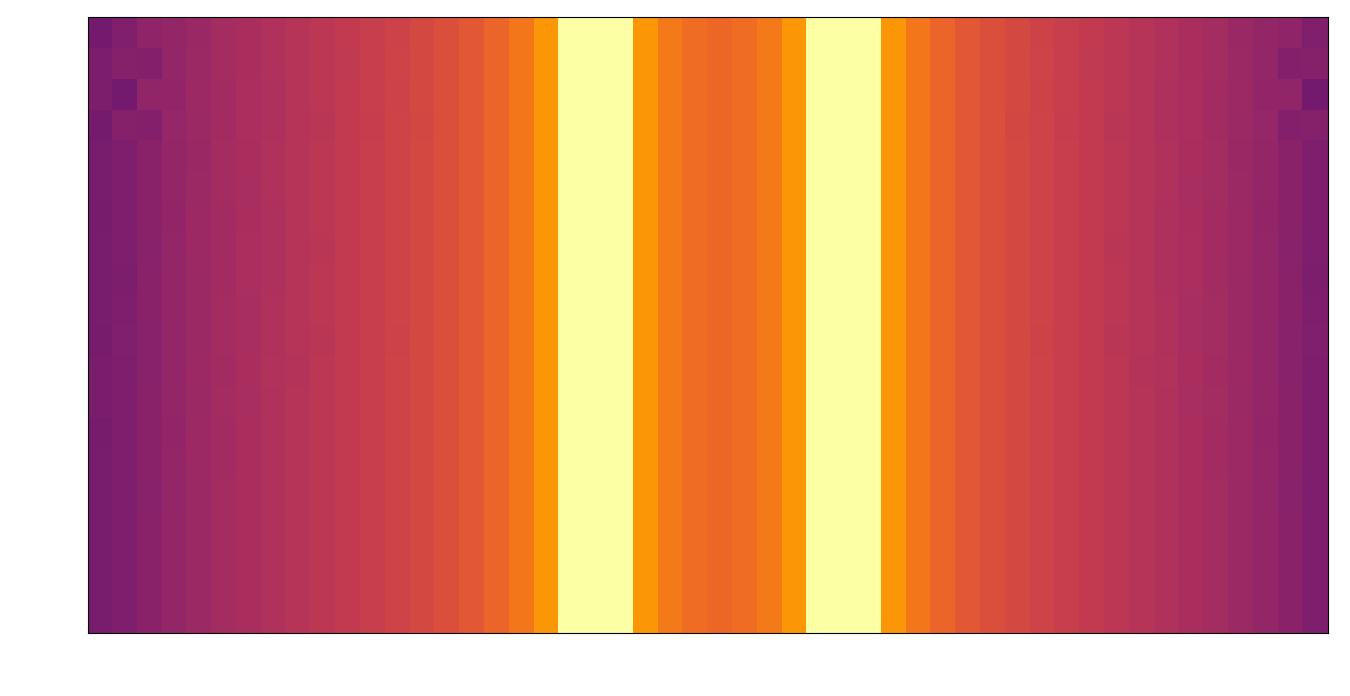
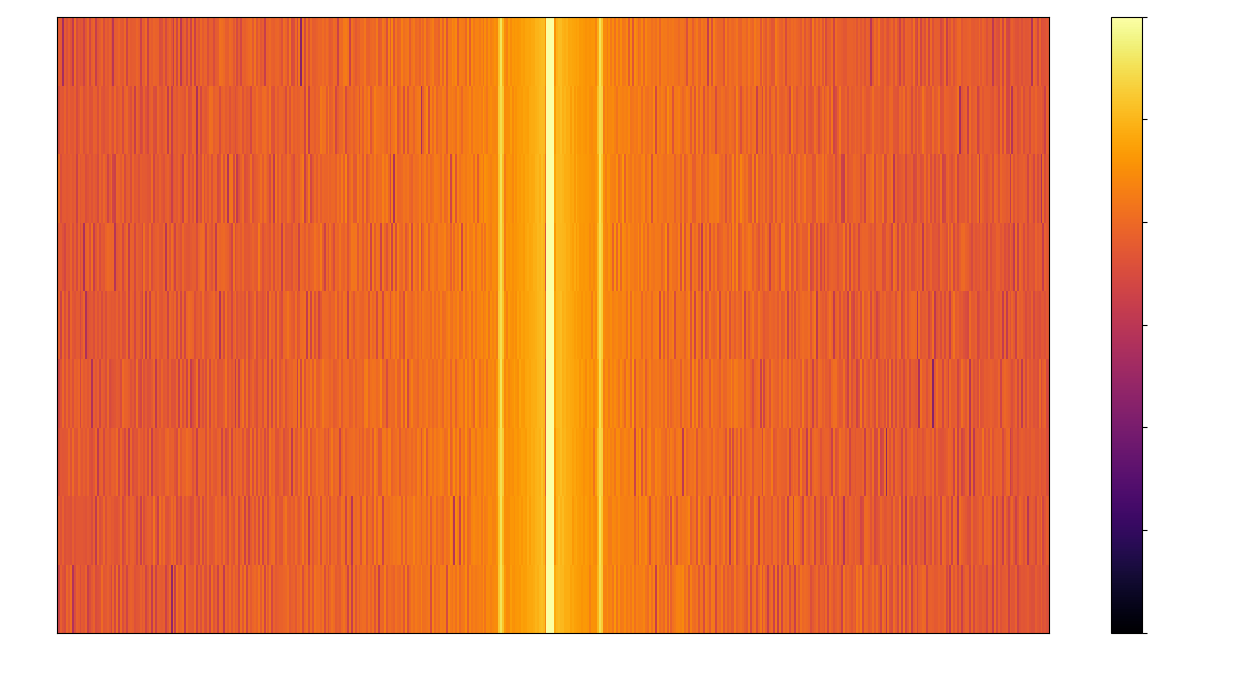
minor changes and png update

diff --git a/front-end/src/components/TxForm.js b/front-end/src/components/TxForm.js
@@ -2,7 +2,7 @@ import React, { useState } from "react";
 import {Form,Col,Button} from "react-bootstrap";
 import backendSettings from "../services/Backend";
 
-
+const SIGNALS = {"ones":"ones","cosine":"cos","consine squared":"cos^","positive exponential":"exp","negative exponential":"neg_exp","rectangular":"rect","primary synchronization signal":"pss"}
 function TxForm({onPlotUpdate}) {
   const [amp,setAmp] = useState(0.5);
   const [t,setT] = useState(10);
@@ -60,14 +60,11 @@ const downloadFile = async (e) => {
         <Form>
         <Form.Group controlId="formGridState">
         <Form.Label>Type of sequence</Form.Label>
-        <Form.Control as="select" defaultValue="ones" onChange={e => setTypeOfSeq(e.target.value)}>
-            <option>ones</option>
-            <option>cos</option>
-            <option>cos^</option>
-            <option>exp</option>
-            <option>neg_exp</option>
-            <option>rect</option>
-            <option>pss</option>
+        <Form.Control as="select" defaultValue="ones" onChange={e => setTypeOfSeq(SIGNALS[e.target.value])}>
+          {Object.keys(SIGNALS).map((key) =>(
+            <option key={key}>{key}</option>
+          ),
+          )}
         </Form.Control>
         </Form.Group>
         

diff --git a/front-end/src/pages/MainPage.js b/front-end/src/pages/MainPage.js
@@ -9,7 +9,7 @@ import ScatterPlot from "../components/ScatterPlot";
 import WaterFallPlot from "../components/WaterFallPlot";
 
 function MainPage() {
-  const [iqData,setIqData] = useState({real:[],imag:[]}) 
+  const [iqData,setIqData] = useState({real:[],imag:[],yLim:[]}) 
   const [fftData,setFftData] = useState([]);
   const [img,setImg] = useState("");
 
@@ -25,7 +25,9 @@ function MainPage() {
   }
 
 
-    return <Container fluid>
+    return (
+      <div className="page">
+    <Container fluid>
     <Row>
       <Col xs={7}>
       <h2 >Sequence Generator</h2>
@@ -48,7 +50,9 @@ function MainPage() {
       <WaterFallPlot waterFallImg={img} ></WaterFallPlot>
       </Col>
       </Row>
-  </Container>;
+  </Container>
+  </div>
+    );
 
 }
 

diff --git a/front-end/src/components/WaterFallPlot.js b/front-end/src/components/WaterFallPlot.js
@@ -13,9 +13,9 @@ const WaterFallPlot =  (waterFallImg)=> {
       return (
         <>
         <Col md={12} lg={12} >
-        < Card style={{ height:'35rem',width:"60rem"}}>
+        < Card style={{ height:'42rem',width:"67rem"}}>
         <Card.Body>
-        <img width={900} hight={200} src={img} alt="waterfall"/>
+        <img width={1040} hight={200} src={img} alt="waterfall"/>
         </Card.Body>
         <Card.Footer>Water Fall Plot</Card.Footer>
         </Card>

diff --git a/front-end/src/pages/MainPage.scss b/front-end/src/pages/MainPage.scss
@@ -22,3 +22,6 @@ h2 {
 .form {
     margin: auto;
 }
+.page {
+    font-size: large;
+}

diff --git a/back-end/fft.py b/back-end/fft.py
@@ -39,7 +39,11 @@ def plot_water_fall(real,imag,fft_size):
     freq_result = calc_water_fall(samples,fft_size)
     fig, ax = plt.subplots(1,1,figsize=(16, 8))
     cmap = plt.get_cmap("inferno")
-    ax.pcolormesh(freq_result,cmap=cmap,vmax=0, vmin=-120)
+    im = ax.pcolormesh(freq_result,cmap=cmap,vmax=0, vmin=-120)
+    cbar = fig.colorbar(im, ax=ax)
+    cbytick_obj = plt.getp(cbar.ax.axes, 'yticklabels')                #tricky
+    plt.setp(cbytick_obj, color='white')
+    cbar.set_label('Power [dBm]',color="white")
     ax.set_xlabel("Frequency [bins]")
     ax.set_ylabel("Time")
     xticks = calc_ticks(fft_size)
